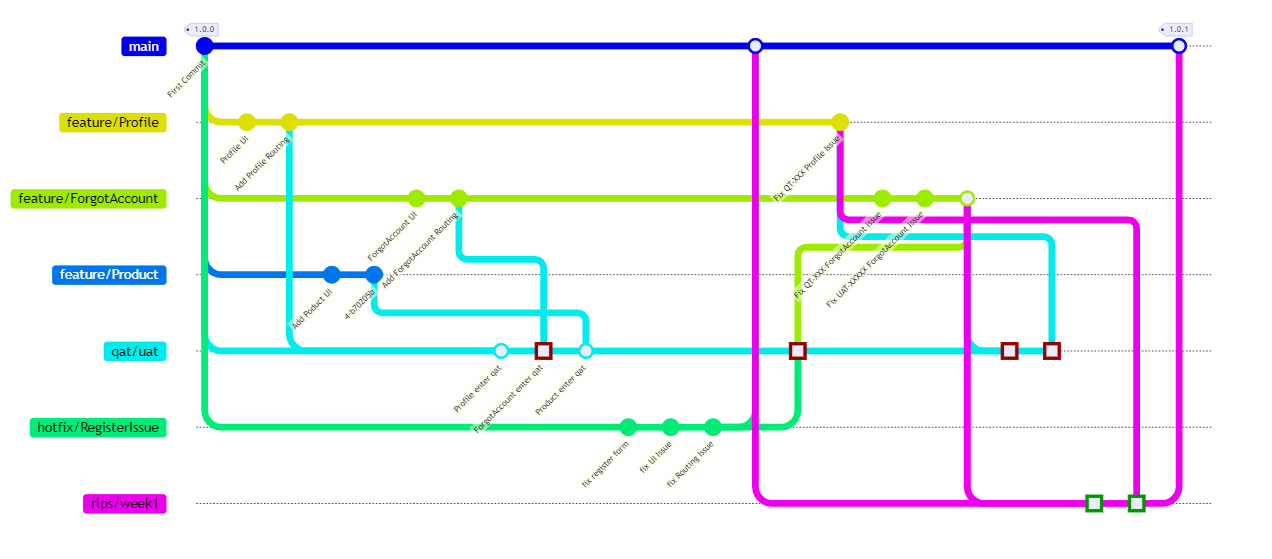
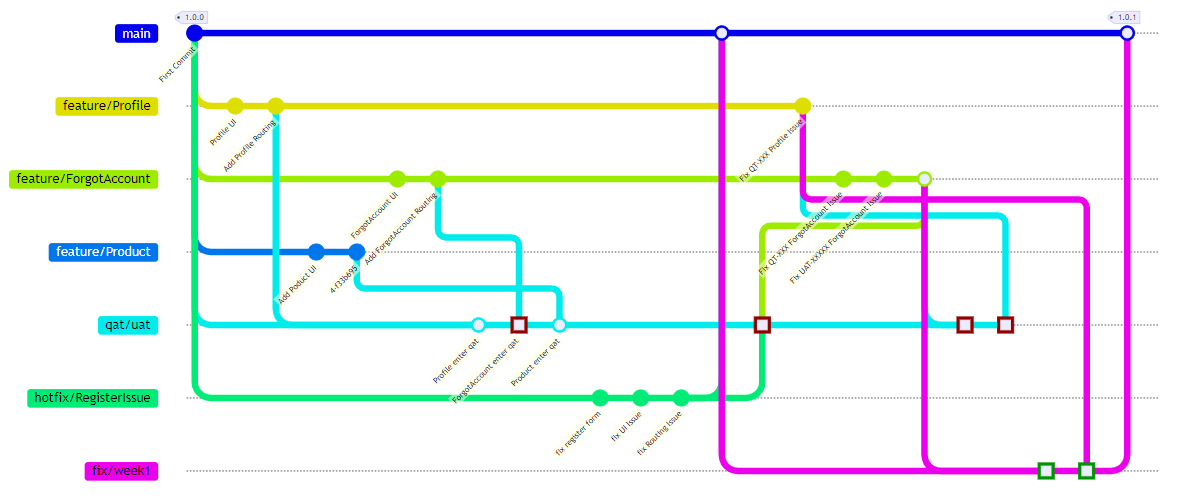
Update image

Changed region(s): [[0.0, 0.0301, 0.9754, 0.9639], [0.061, 0.8735, 0.1524, 0.9639]]

diff --git a/source/_posts/GitFlow.md b/source/_posts/GitFlow.md
@@ -26,6 +26,7 @@ tags:
 | main        | Pre-Prod, Prod | 正式環境      |
 | feature/xxx |                | 開發功能分支  |
 | hotfix/xxx  |                | 緊急功能修正  |
+| fix/xxx     |                | 排程功能部屬  |
 
 我們環境實際上重要的有三種環境
 
@@ -57,19 +58,38 @@ tags:
 2. feature/ForgotAccount: 忘記帳號密碼的流程 (新增 UI 以及會修改到 Routing 的檔案)
 3. feature/Product: 新的產品頁面 (新增 UI 以及會修改到 Routing 的檔案)
 4. main: 我們的正式環境的 branch
+5. fix/Week1: 因為我們是每一週會上 Code 所以 branch 以 fix prefix 開頭 然後會把完成的功能 merge 進來
 
 首先可能 A 這個人收到會員功能的部分開始開發，以及 B 這個人也開始開發忘記帳號密碼的流程
-
 他們都是從 main 這個 branch 開啟 feature branch 各自開發，那開發到一個段落了
-
 A 的功能先完成，他先 Merge 到 QAT ，接著換 B 的功能完成，他也 Merge 到 QAT
 
 **如圖片黑框的部分 這樣有可能會發生衝突**
 {% asset_img 1.1.png "Flow" %}
 
 Issue 1. 因為根據剛剛上面的敘述 A 跟 B 在沒有協調的狀況下 它們有檔案衝突了
+
 所以這是第一個衝突點，Routing 檔案衝突
 Solution:
 
 1. 找 A 跟 B 一起選擇 confilt 檔案
-2. 並且要討論之後 Prod 進入的順序是否是 A 先 B 後 或是 B 後 A 先 ，如果不是
+2. 並且要討論之後進到正式環境的順序是否是 A 先 B 後 或是 B 後 A 先 ，到時候要討論怎麼 Merge
+
+---
+
+接著測試到一個段落 QA 也認為 1 跟 2. 的 branch 差不多可以進 Prod 了,我們會透過剛剛提到的 5.
+fix/Week1 將大家要進的程式碼統一 Merge 到此 branch 然後 merge to Prod ,部屬到 Pre-Prod 環境給 QA 做最後檢查
+
+**這樣好處是 Merge prod 只會有一個點 到時候要退版也會好退**
+
+Issue 2. 跟 Issue 1 一樣 有可能會有 Routing 檔案衝突或是其他檔案衝突
+
+**如圖片黑框的部分 這樣有可能會發生衝突**
+{% asset_img 1.2.png "Flow" %}
+Solution:
+
+1. 定時 Sync main branch 到自己的 branch ex: feature/Profile 如果有衝突可以當下就定時解掉 避免上線前的困擾
+2. 找 A 跟 B 一起選擇 confilt 檔案
+3. 部屬時候如果有衝突的部分要再檢查一次功能
+
+---
